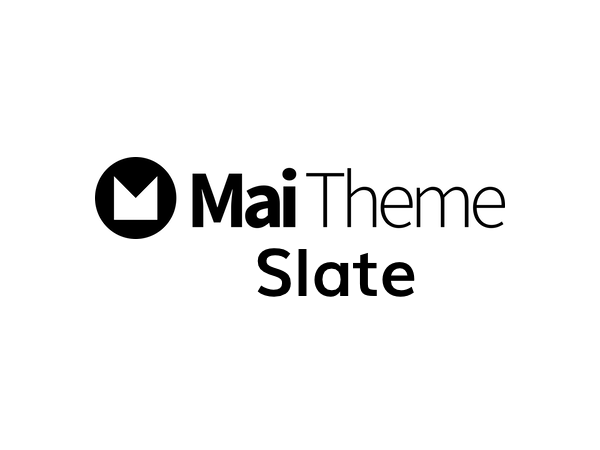
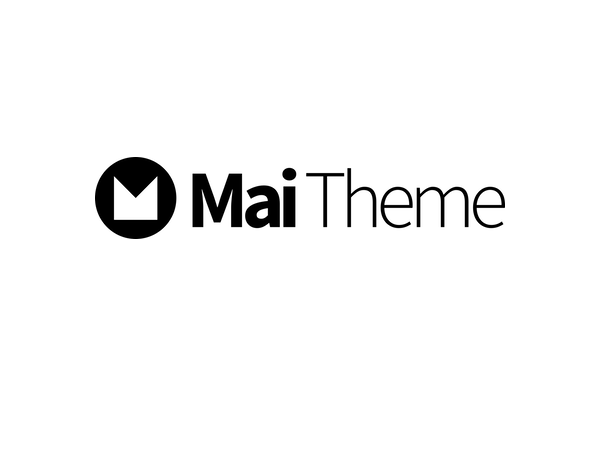
Convert to the one and only Mai Theme.

Changed region(s): [[0.42, 0.5289, 0.69, 0.6844]]

diff --git a/style.css b/style.css
@@ -1,6 +1,6 @@
 /**
- * Theme Name:          Mai Universal Pro
- * Description:         Mai Universal Pro is a custom child theme for The Genesis Framework.
+ * Theme Name:          Mai Theme
+ * Description:         Mai Theme is a custom child theme for The Genesis Framework.
  * Author:              Mike Hemberger, BizBudding Inc
  * Author URI:          https://bizbudding.com/
  * Version:             1.0.0

diff --git a/functions.php b/functions.php
@@ -1,10 +1,9 @@
 <?php
 
 // Child theme (Do not remove!).
-define( 'CHILD_THEME_NAME', 'Mai Universal Pro' );
+define( 'CHILD_THEME_NAME', 'Mai Theme' );
 define( 'CHILD_THEME_URL', 'https://maitheme.com/' );
 define( 'CHILD_THEME_VERSION', '1.0.0' );
-define( 'MAI_THEME_SP', true );
 
 // Support the Mai Theme Engine (Do not remove!).
 add_theme_support( 'mai-theme-engine' );
